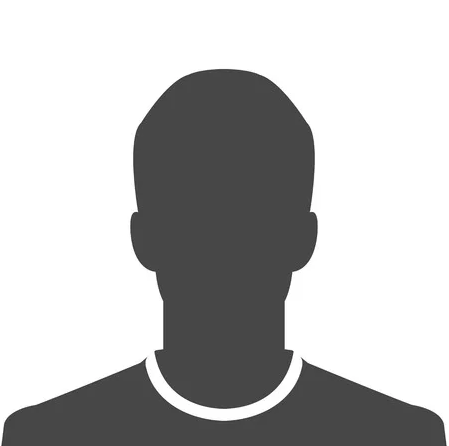
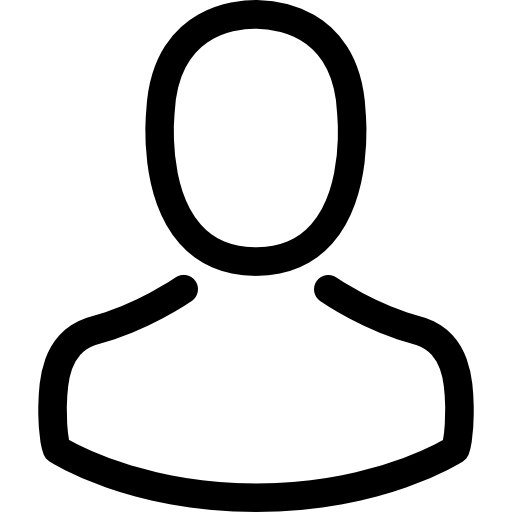
Se actualiza la vista del docente

diff --git a/docente.html b/docente.html
@@ -1,0 +1,172 @@
+<!DOCTYPE html>
+<html lang="en">
+<head>
+    <meta charset="UTF-8">
+    <meta http-equiv="X-UA-Compatible" content="IE=edge">
+    <meta name="viewport" content="width=device-width, initial-scale=1.0">
+    <title>docente</title>
+    <link rel="stylesheet" href="css/bootstrap.min.css">
+    <script src="js/bootstrap.bundle.min.js"></script>
+</head>
+<body>
+   
+    
+    <div class="container text-center">
+        <div class="row">
+          <div class="col">
+            <h1>
+                <p style="text-align:center"> <p style="color:rgb(185, 18, 61);">Vista del docente </p><br>
+            </h1>
+          </div>
+          <div class="col">
+            <img class="col" src="images/logo_urosario.png"  width="60px" height="120px"/><br>
+          
+          </div>
+        </div>
+      </div>
+   
+              
+      </div>
+    <br>
+    <br>
+   </h1>
+   <div class="container overflow-hidden text-center">
+    <div class="row gx-5">
+      <div class="col">
+       <div class="p-3 border bg-light">
+         
+    <p>
+        <p align="left">
+        <strong>Nombre del estudiante:</strong>  <br>
+       <strong>Tipo de documento:</strong>  <br>
+       <strong>Número de documento:</strong> <br>
+    </p>
+</div>
+      </div>
+      <div class="col">
+        <div class="p-3 border bg-light"><img class="col" src="images/img_usuario.png"  width="60px" height="102px"/>
+            <br>
+        </div>
+      </div>   
+   
+   
+</div>
+   <h2>
+        <br>
+        <p style="text-align:center"> <p style="color:rgb(185, 18, 61);">Materias </p><br>
+        </h2>
+    <div class="container text-center">
+    <div class="row">
+      <div class="col">
+        <strong>Materia 1</strong><br>
+        <br>
+        <p>
+            Actividad 1 <br>
+            Actividad 2 <br>
+            Actividad 3 <br>
+            Actividad 4 <br>
+        </p>
+      </div>
+      <div class="col">
+        <strong>Materia 2</strong>  <br>
+        <br>
+        <p>
+            Actividad 1 <br>
+            Actividad 2 <br>
+            Actividad 3 <br>
+            Actividad 4 <br>
+      </div>
+      <div class="col">
+        <strong>Materia 3</strong><br>
+        <br>
+        <p>
+            Actividad 1 <br>
+            Actividad 2 <br>
+            Actividad 3 <br>
+            Actividad 4 <br>
+      </div>
+      <div class="col">
+        <strong>Materia 4</strong><br>
+        <br>
+        <p>
+            Actividad 1 <br>
+            Actividad 2 <br>
+            Actividad 3 <br>
+            Actividad 4 <br>
+      </div>
+      <br>
+      <br>
+      <h2>
+        <p style="color:rgb(185, 18, 61);">Notas </p>
+      </h2>
+      <br>
+      <p>
+        <br>
+        <div class="container overflow-hidden text-center">
+            <div class="row gx-5">
+              <div class="col">
+               <div class="p-3 border bg-light">
+                <p><strong>Para agregar una calificación, seleccione la materia, la actividad y el estudiante que requiere evaluar.</strong></p>
+                
+        <br>
+        <br>
+      </p>
+    </div>
+    <br>
+    <br>
+    <div class="container text-center">
+        <div class="row">
+          <div class="col">
+            <select class="form-select" aria-label="Default select example">
+                <option selected>Seleccione la materia</option>
+                <option value="1">Materia 1</option>
+                <option value="2">Materia 2</option>
+                <option value="3">Materia 3</option>
+                <option value="4">Materia 4</option>
+
+              </select>
+          </div>
+          <div class="col">
+            <select class="form-select" aria-label="Default select example">
+                <option selected> Seleccione la actividad</option>
+                <option value="1">Actividad 1</option>
+                <option value="2">Actividad 2</option>
+                <option value="3">Actividad 3</option>
+                <option value="4">Actividad 4</option>
+            </select>
+        </div>
+       
+          <div class="col">
+            <select class="form-select" aria-label="Default select example">
+                <option selected>Seleccione el estudiante</option>
+                <option value="1">Estudiante 1</option>
+                <option value="2">Estudiante 2</option>
+                <option value="3">Estudiante 3</option>
+                <option value="4">Estudiante 4</option>
+            </select>
+            <br>
+            <br>
+        </div>
+       <h2>
+        <p style="color:rgb(185, 18, 61);">Ingresar nota</p><br>
+        <br>
+       </h2>
+       <input type="text" name="tipo_de_dato"/> 
+       <br>
+       <br>           
+                      
+        </div>        
+  </div>
+  <div class="col">
+    <br>
+    <br>
+    <p><textarea name="comentario" rows="5" cols="50">Comentario acerca de la calificación: </textarea></p>
+</div>
+
+
+<input class="btn btn-primary" type="Enviar" value="Enviar">
+
+</form>
+</body>
+    
+</html>
